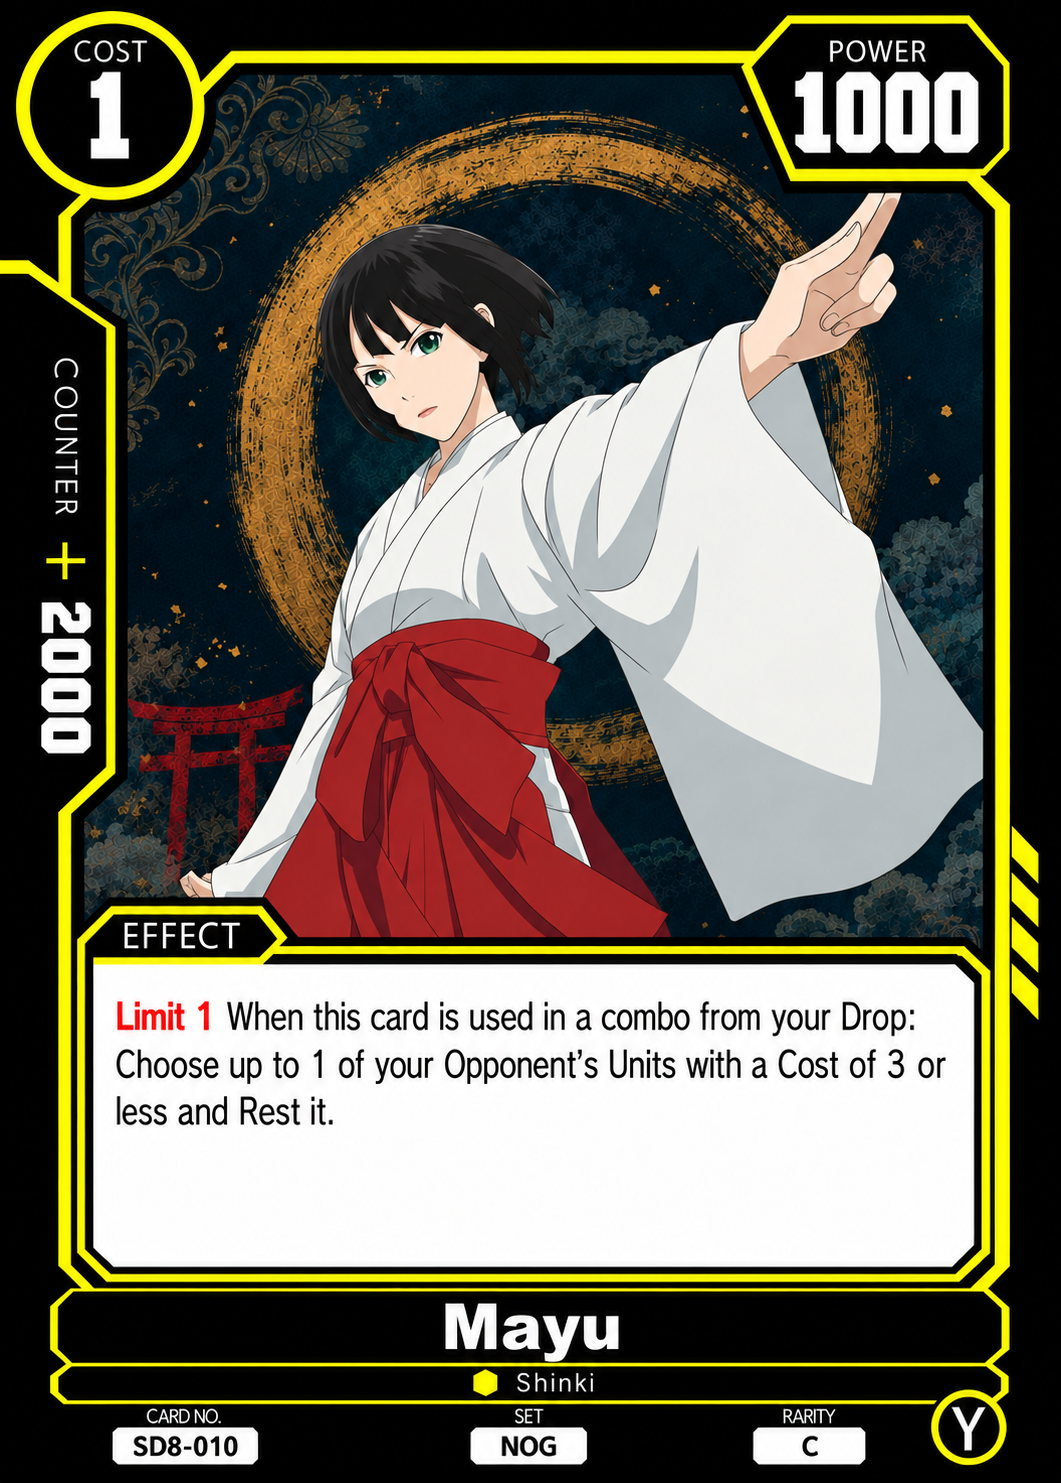
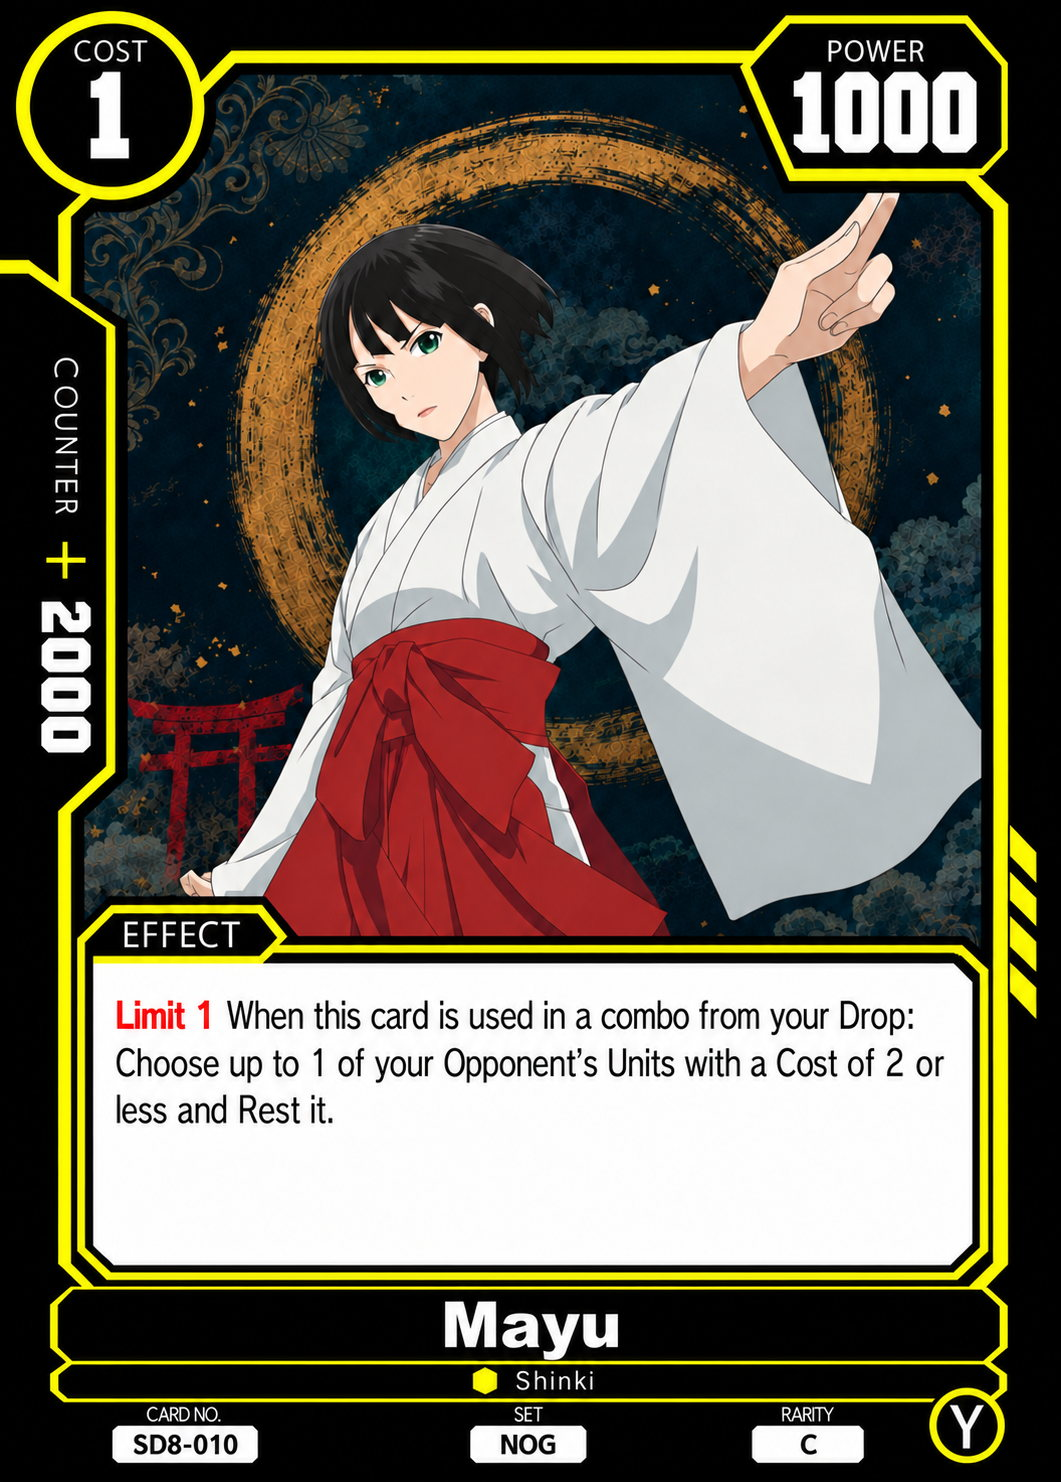
Refresh Noragami effects and Momo Life prints

diff --git a/card-text-data.js b/card-text-data.js
@@ -13451,7 +13451,7 @@ window.SJTCG_CARD_TEXT = {
     "color": "Pink",
     "cost": "",
     "sj_cost": "",
-    "life": "5",
+    "life": "6",
     "power": "5000",
     "traits": "Kumamori Shrine",
     "set": "DDD",
@@ -19711,8 +19711,8 @@ window.SJTCG_CARD_TEXT = {
     "set": "NOG",
     "rarity": "L",
     "bottom_right_circle": "Y",
-    "effect": "[Activate: Main] Once per Turn Place the top 2 cards of your Deck in your Drop: Draw 1 card; place 1 card from your hand in your Drop.\n[Activate: Battle] Once per Turn Use up to 1 card with the \"Shinki\" Trait from your Drop in a combo. Then, at the end of the battle, place that card and 1 card from your Drop at the bottom of your Deck.\nThreshold 1 [On Attack] Place 1 card from your Drop at the bottom of your Deck: Add up to 1 Unit card with the \"Deity\" Trait from your Drop to your hand.",
-    "effect_html": "<span class=\"kw kw-purple\" title=\"Timing window\">[Activate: Main]</span> <span class=\"kw kw-orange\" title=\"Once per Turn\">Once per Turn</span> Place the top 2 cards of your Deck in your Drop: Draw 1 card; place 1 card from your hand in your Drop.<br><span class=\"kw kw-purple\" title=\"Timing window\">[Activate: Battle]</span> <span class=\"kw kw-orange\" title=\"Once per Turn\">Once per Turn</span> Use up to 1 card with the &quot;Shinki&quot; Trait from your Drop in a combo. Then, at the end of the battle, place that card and 1 card from your Drop at the bottom of your Deck.<br><span class=\"kw kw-orange\" title=\"Threshold X\">Threshold 1</span> <span class=\"kw kw-purple\" title=\"Timing window\">[On Attack]</span> Place 1 card from your Drop at the bottom of your Deck: Add up to 1 Unit card with the &quot;Deity&quot; Trait from your Drop to your hand.",
+    "effect": "[Activate: Main] Once per Turn Place the top 2 cards of your Deck in your Drop: Draw 1 card; place 1 card from your hand in your Drop.\n[Activate: Battle] Once per Turn (1) Use up to 1 card with the \"Shinki\" Trait from your Drop in a combo. Then, at the end of the battle, place that card and 1 card from your Drop at the bottom of your Deck.\nThreshold 1 [On Attack] Place 2 cards from your Drop at the bottom of your Deck: Add up to 1 Unit card with the \"Deity\" Trait from your Drop to your hand.",
+    "effect_html": "<span class=\"kw kw-purple\" title=\"Timing window\">[Activate: Main]</span> <span class=\"kw kw-orange\" title=\"Once per Turn\">Once per Turn</span> Place the top 2 cards of your Deck in your Drop: Draw 1 card; place 1 card from your hand in your Drop.<br><span class=\"kw kw-purple\" title=\"Timing window\">[Activate: Battle]</span> <span class=\"kw kw-orange\" title=\"Once per Turn\">Once per Turn</span> (1) Use up to 1 card with the &quot;Shinki&quot; Trait from your Drop in a combo. Then, at the end of the battle, place that card and 1 card from your Drop at the bottom of your Deck.<br><span class=\"kw kw-orange\" title=\"Threshold X\">Threshold 1</span> <span class=\"kw kw-purple\" title=\"Timing window\">[On Attack]</span> Place 2 cards from your Drop at the bottom of your Deck: Add up to 1 Unit card with the &quot;Deity&quot; Trait from your Drop to your hand.",
     "notes": "",
     "transcription_status": "verified",
     "release": "SD8",
@@ -19756,8 +19756,8 @@ window.SJTCG_CARD_TEXT = {
     "set": "NOG",
     "rarity": "SR",
     "bottom_right_circle": "Y",
-    "effect": "Unique Barrier\n[On Play] Choose up to 1 of your Opponent's Rested Units with a Cost of 4 or less and K.O. it. Then, if you K.O.'d a card, place this card at the bottom of your Deck at the end of the turn.\n[Activate: Main] Limit 1 (2) Place 1 card from your hand in your Drop: If your Leader is \"Yato\" and your Turn Energy is 4 or more, play this card from your Drop.",
-    "effect_html": "<span class=\"kw kw-red\" title=\"Unique\">Unique</span> <span class=\"kw kw-red\" title=\"Barrier\">Barrier</span><br><span class=\"kw kw-purple\" title=\"Timing window\">[On Play]</span> Choose up to 1 of your Opponent&#x27;s Rested Units with a Cost of 4 or less and K.O. it. Then, if you K.O.&#x27;d a card, place this card at the bottom of your Deck at the end of the turn.<br><span class=\"kw kw-purple\" title=\"Timing window\">[Activate: Main]</span> <span class=\"kw kw-red\" title=\"Limit X\">Limit 1</span> (2) Place 1 card from your hand in your Drop: If your Leader is &quot;Yato&quot; and your Turn Energy is 4 or more, play this card from your Drop.",
+    "effect": "Barrier\n[On Play] Choose up to 1 of your Opponent's Rested Units with a Cost of 3 or less and K.O. it. Then, if you K.O.'d a card, place this card at the bottom of your Deck at the end of the turn.\n[Activate: Main] (2) Place 1 card from your hand in your Drop: If your Leader is \"Yato\" and your Turn Energy is 4 or more, play this card from your Drop and you can't play \"Yukine\" for the turn.",
+    "effect_html": "<span class=\"kw kw-red\" title=\"Barrier\">Barrier</span><br><span class=\"kw kw-purple\" title=\"Timing window\">[On Play]</span> Choose up to 1 of your Opponent&#x27;s Rested Units with a Cost of 3 or less and K.O. it. Then, if you K.O.&#x27;d a card, place this card at the bottom of your Deck at the end of the turn.<br><span class=\"kw kw-purple\" title=\"Timing window\">[Activate: Main]</span> (2) Place 1 card from your hand in your Drop: If your Leader is &quot;Yato&quot; and your Turn Energy is 4 or more, play this card from your Drop and you can&#x27;t play &quot;Yukine&quot; for the turn.",
     "notes": "",
     "transcription_status": "verified",
     "release": "SD8",
@@ -19894,8 +19894,8 @@ window.SJTCG_CARD_TEXT = {
     "set": "NOG",
     "rarity": "C",
     "bottom_right_circle": "Y",
-    "effect": "Unique Deflect\n[On Play] Choose all of your Opponent's Units with a Cost of 4 or less and Rest them. Then, if you Rested a card, place this card at the bottom of your Deck at the end of the turn.\n[Activate: Main] Limit 1 (2) Place 1 card from your hand in your Drop: If your Leader is \"Yato\" and your Turn Energy is 4 or more, play this card from your Drop.",
-    "effect_html": "<span class=\"kw kw-red\" title=\"Unique\">Unique</span> <span class=\"kw kw-red\" title=\"Deflect\">Deflect</span><br><span class=\"kw kw-purple\" title=\"Timing window\">[On Play]</span> Choose all of your Opponent&#x27;s Units with a Cost of 4 or less and Rest them. Then, if you Rested a card, place this card at the bottom of your Deck at the end of the turn.<br><span class=\"kw kw-purple\" title=\"Timing window\">[Activate: Main]</span> <span class=\"kw kw-red\" title=\"Limit X\">Limit 1</span> (2) Place 1 card from your hand in your Drop: If your Leader is &quot;Yato&quot; and your Turn Energy is 4 or more, play this card from your Drop.",
+    "effect": "Deflect\n[On Play] Choose all of your Opponent's Units with a Cost of 3 or less and Rest them. Then, if you Rested a card, place this card at the bottom of your Deck at the end of the turn.\n[Activate: Main] (2) Place 1 card from your hand in your Drop: If your Leader is \"Yato\" and your Turn Energy is 4 or more, play this card from your Drop and you can't play \"Yukine\" for the turn.",
+    "effect_html": "<span class=\"kw kw-red\" title=\"Deflect\">Deflect</span><br><span class=\"kw kw-purple\" title=\"Timing window\">[On Play]</span> Choose all of your Opponent&#x27;s Units with a Cost of 3 or less and Rest them. Then, if you Rested a card, place this card at the bottom of your Deck at the end of the turn.<br><span class=\"kw kw-purple\" title=\"Timing window\">[Activate: Main]</span> (2) Place 1 card from your hand in your Drop: If your Leader is &quot;Yato&quot; and your Turn Energy is 4 or more, play this card from your Drop and you can&#x27;t play &quot;Yukine&quot; for the turn.",
     "notes": "",
     "transcription_status": "verified",
     "release": "SD8",
@@ -19917,8 +19917,8 @@ window.SJTCG_CARD_TEXT = {
     "set": "NOG",
     "rarity": "C",
     "bottom_right_circle": "Y",
-    "effect": "Limit 1 When this card is used in a combo from your Drop: Choose up to 1 of your Opponent's Units with a Cost of 3 or less and Rest it.",
-    "effect_html": "<span class=\"kw kw-red\" title=\"Limit X\">Limit 1</span> When this card is used in a combo from your Drop: Choose up to 1 of your Opponent&#x27;s Units with a Cost of 3 or less and Rest it.",
+    "effect": "Limit 1 When this card is used in a combo from your Drop: Choose up to 1 of your Opponent's Units with a Cost of 2 or less and Rest it.",
+    "effect_html": "<span class=\"kw kw-red\" title=\"Limit X\">Limit 1</span> When this card is used in a combo from your Drop: Choose up to 1 of your Opponent&#x27;s Units with a Cost of 2 or less and Rest it.",
     "notes": "",
     "transcription_status": "verified",
     "release": "SD8",

diff --git a/cards-data.js b/cards-data.js
@@ -8074,13 +8074,13 @@ window.SJTCG_CARD_DATA = [
     "cardType": "Leader",
     "deckLimit": 1,
     "orientation": "Portrait",
-    "imageVersion": "be2eb8898f7e",
+    "imageVersion": "dbf5e3283ff0",
     "altImages": [
       {
         "label": "ST7 Leader Reprint — Alt Art",
         "image": "images/ST5-101-alt1.jpg",
         "release": "ST7",
-        "imageVersion": "6604f543d9ab"
+        "imageVersion": "104297f74bf6"
       }
     ]
   },
@@ -11790,13 +11790,13 @@ window.SJTCG_CARD_DATA = [
     "cardType": "Leader",
     "deckLimit": 1,
     "orientation": "Portrait",
-    "imageVersion": "b452e80c5a54",
+    "imageVersion": "9b9eb9e37ce2",
     "altImages": [
       {
         "label": "ST7 Leader Reprint — Alt Art",
         "image": "images/SD8-001-alt1.jpg",
         "release": "ST7",
-        "imageVersion": "0ca96a93af22"
+        "imageVersion": "eec0cf888bd6"
       }
     ]
   },
@@ -11830,7 +11830,7 @@ window.SJTCG_CARD_DATA = [
     "cardType": "Main Deck",
     "deckLimit": 4,
     "orientation": "Portrait",
-    "imageVersion": "4ebdc193cf8a"
+    "imageVersion": "20dc44ab84bf"
   },
   {
     "number": "SD8-004",
@@ -11910,7 +11910,7 @@ window.SJTCG_CARD_DATA = [
     "cardType": "Main Deck",
     "deckLimit": 4,
     "orientation": "Portrait",
-    "imageVersion": "ba82d160002c"
+    "imageVersion": "c6ec45e3ef94"
   },
   {
     "number": "SD8-010",
@@ -11922,7 +11922,7 @@ window.SJTCG_CARD_DATA = [
     "cardType": "Main Deck",
     "deckLimit": 4,
     "orientation": "Portrait",
-    "imageVersion": "432a0b041e1c"
+    "imageVersion": "3c0ff30815b1"
   },
   {
     "number": "SD8-011",

diff --git a/index.html b/index.html
@@ -214,8 +214,8 @@
     </section>
   </div>
 
-  <script src="cards-data.js?v=04b5048fa111"></script>
-  <script src="card-text-data.js?v=ca3e5088cd40"></script>
+  <script src="cards-data.js?v=8bd45dfa21ec"></script>
+  <script src="card-text-data.js?v=a5b9742804e0"></script>
   <script src="app.js?v=20261009-reprint-search-2"></script>
 </body>
 </html>
